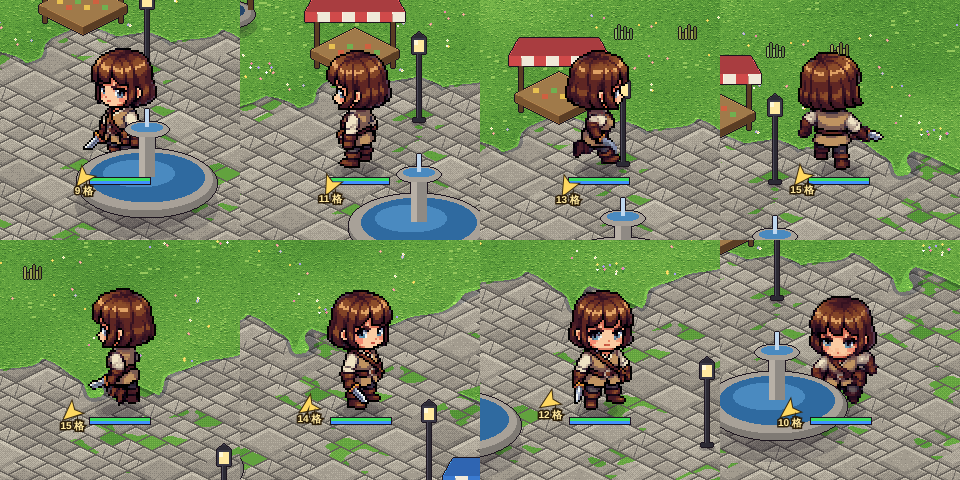
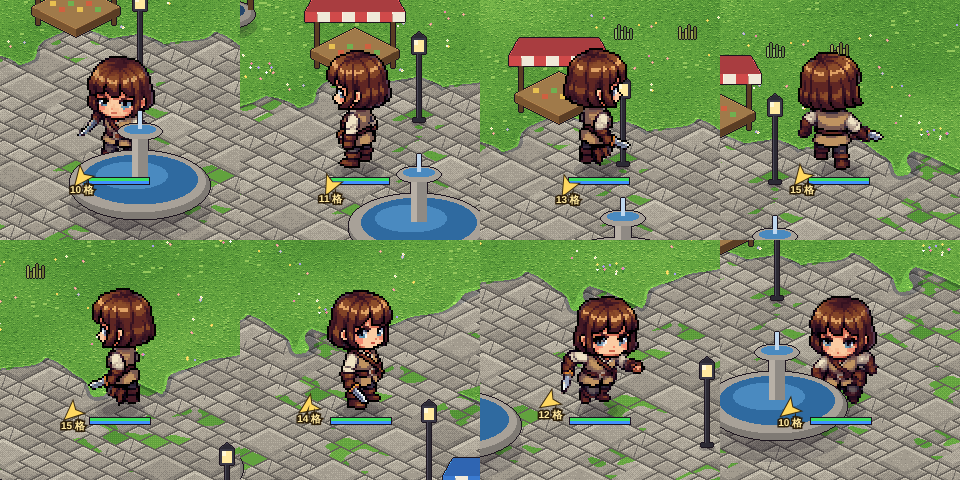
初心者：補左下、右下跑步動畫
Claude-Session: https://claude.ai/code/session_01T2m48zuVeiYqCrQn65uTXz

diff --git a/ro-mmorpg/tools/make_sheet8.py b/ro-mmorpg/tools/make_sheet8.py
@@ -9,7 +9,7 @@ from PIL import Image, ImageSequence
 FRAME_ORDER = [0, 7, 6, 5, 4, 3, 2, 1]                      # 列 → 轉身圖的第幾格
 FWD = [(0, 1), (-1, 1), (-1, 0), (-1, -1), (0, -1), (1, -1), (1, 0), (1, 1)]  # 各列「往前」的畫面方向（攻擊衝刺用）
 # 真正的跑步動畫：方向 → (檔案, 是否鏡像)。列：S=0 NW=3 N=4 NE=5（NE 由 NW 鏡像）
-RUN = {0: ('assets/sprites/src/novice_run_S.gif', False), 3: ('assets/sprites/src/novice_run_NW.gif', False),
+RUN = {1: ('assets/sprites/src/novice_run_SW.gif', False), 7: ('assets/sprites/src/novice_run_SE.gif', False), 0: ('assets/sprites/src/novice_run_S.gif', False), 3: ('assets/sprites/src/novice_run_NW.gif', False),
        4: ('assets/sprites/src/novice_run_N.gif', False), 5: ('assets/sprites/src/novice_run_NW.gif', True)}
 def run_frames(path, mirror, scale):
     """跑步 GIF → 挑 4 格（平均取樣），裁切後放大；回傳 [(影像, 腳底相對偏移)]，水平中心固定、腳底以最低點為基準"""

diff --git a/ro-mmorpg/PROGRESS.md b/ro-mmorpg/PROGRESS.md
@@ -482,3 +482,4 @@
 - 使用者提供三組 96×96 跑步 GIF（背面左後 8 格、正面 6 格、背面 6 格），存於 `assets/sprites/src/novice_run_{NW,S,N}.gif`。
 - `tools/make_sheet8.py` 新增 `RUN`：正面（列 0）、左後（列 3）、背面（列 4）、右後（列 5＝左後鏡像）的走路格改用真跑步圖（等距抽 4 格，腳底以最低點為基準對齊）。其餘方向（左下、左、右、右下）仍是轉身靜態圖＋程式晃動；攻擊都是衝刺。
 - 待補：側面與斜前方的跑步圖、真正的攻擊動畫。截圖 `screenshots/八方向跑步.png`，測試 `tools/act/walk8.js`、`sheet8.js`。
+- 追加左下（novice_run_SW.gif）與右下（novice_run_SE.gif）跑步圖；目前只剩左、右純側面仍是靜態圖＋晃動。
